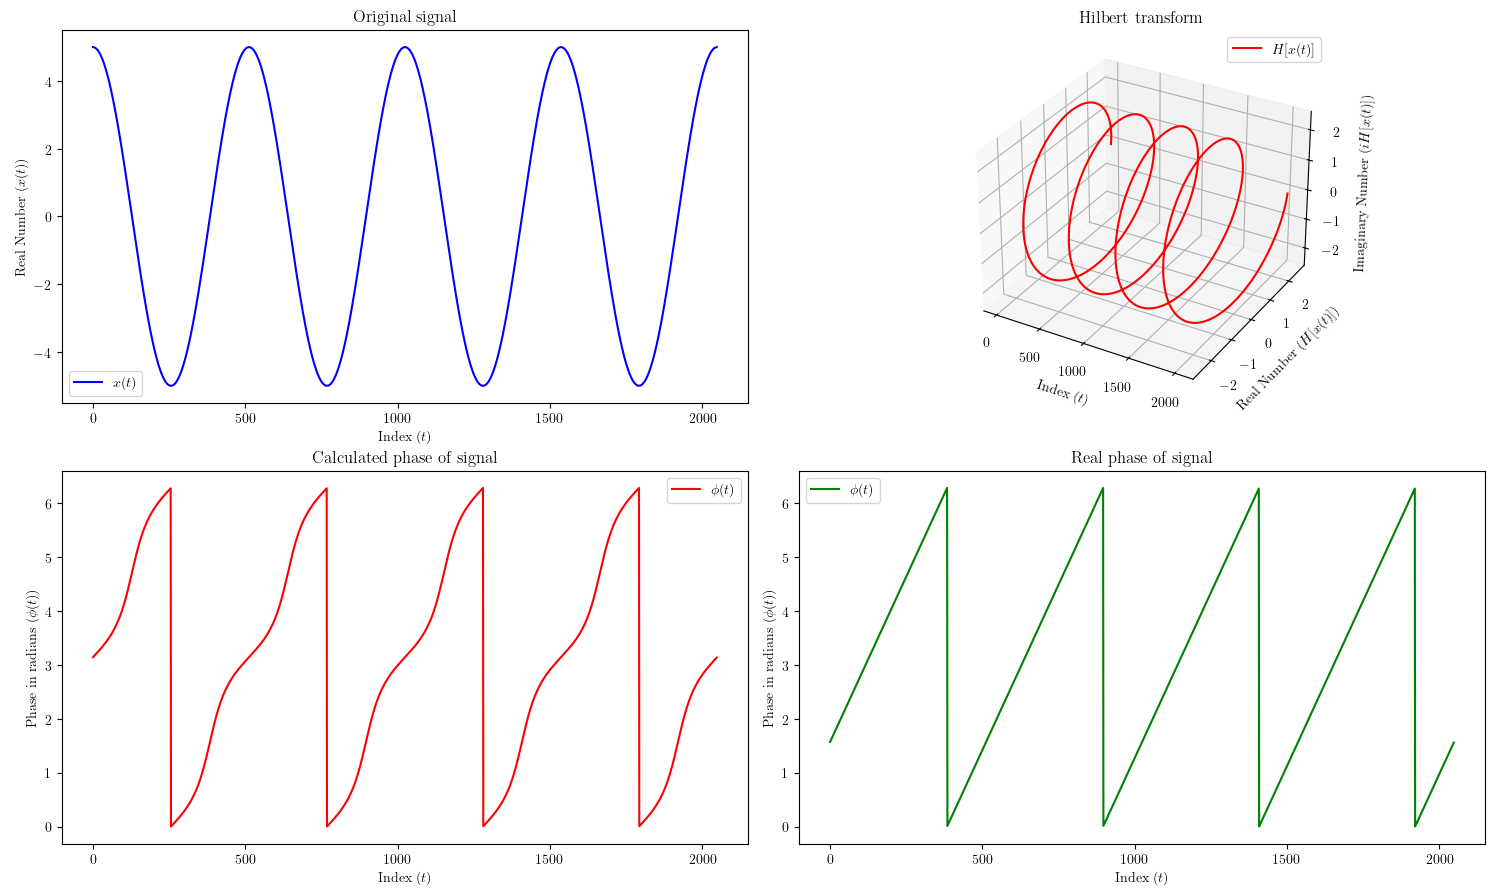
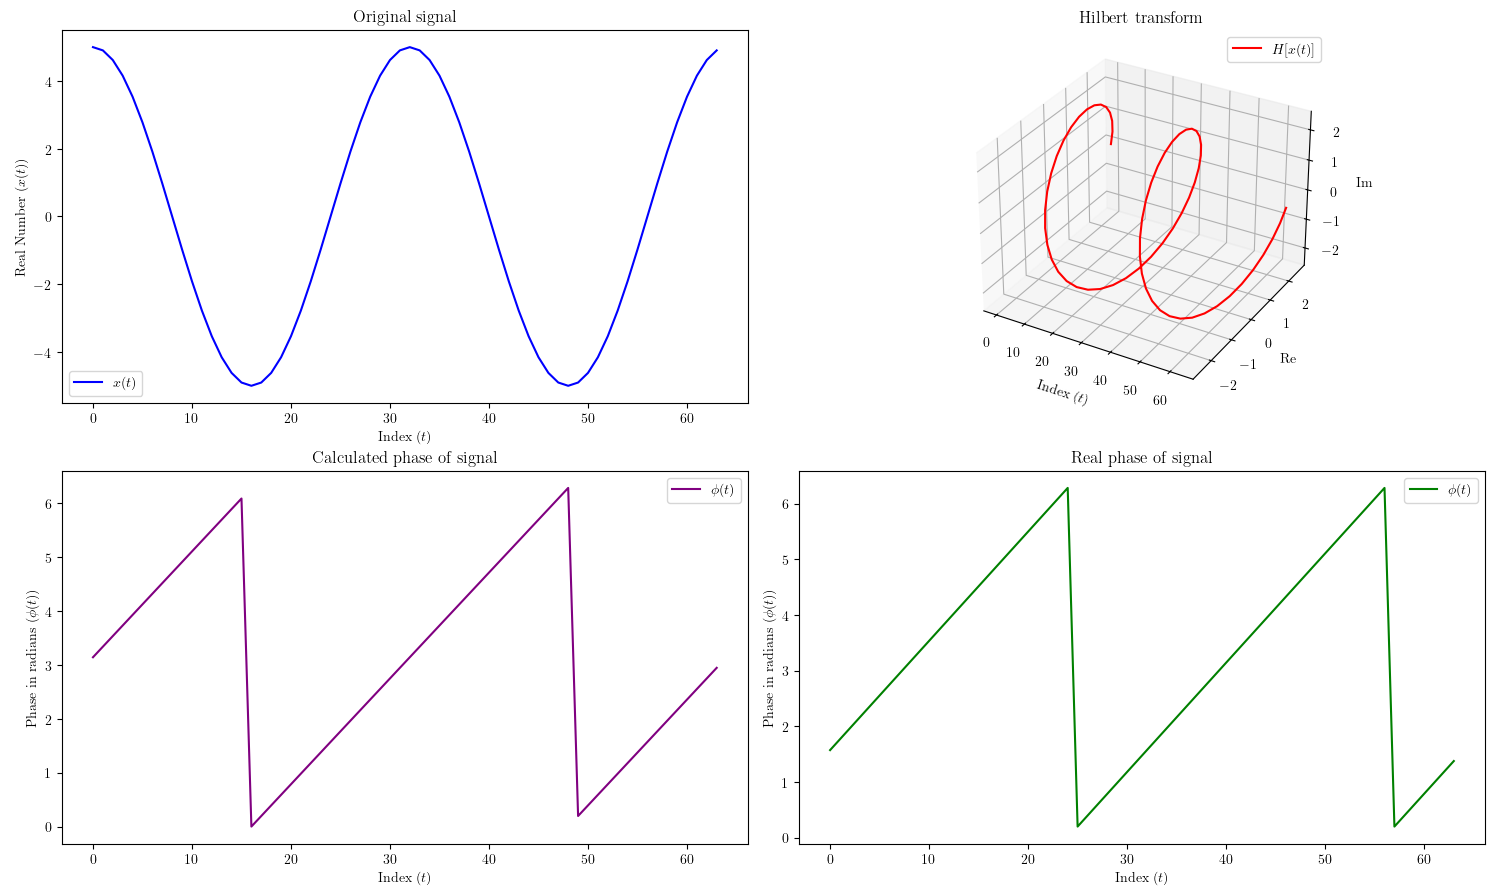
ht.c now uses complex.h, almost working

diff --git a/ht.c b/ht.c
@@ -1,12 +1,36 @@
+/**
+ *  ht.c 
+ *
+ *  This file contains the source code for demoing a Hilbert transform in C, 
+ *  using GSL (GNU Scientific Library)
+ *
+ *  The program prints x(t), H[x(t)], and the calculated and real instantaneous
+ *  phase of x(t), over time 
+ *  Where x(t) is the original signal, i.e. 5cos(2pi * 2 * t)
+ *        H[x(t)] is the Hilbert transform of x(t)
+ */
+
 #include <stdio.h>
 #include <stdlib.h>
 #include <math.h>
+#include <complex.h>
 #include <gsl/gsl_errno.h>
 #include <gsl/gsl_fft_complex.h>
 
 #define REAL(z,i) ((z)[2*(i)])
 #define IMAG(z,i) ((z)[2*(i)+1])
 #define TWOPI 6.2831853
+
+// Generate a cosine signal with given values
+// * Presumes that data is of size 2*n 
+void generate_cos(double f, double A, double period, double* data, int n) {
+  double dt = period / n;
+  for (int i = 0; i < n; i++)
+  {
+    REAL(data,i) = A * cos(TWOPI * f * dt * i); 
+    IMAG(data,i) = 0;
+  }
+}
 
 // Hilbert tranform function
 void hilbert(double* data, int stride, int n) {
@@ -21,18 +45,12 @@ void hilbert(double* data, int stride, int n) {
   gsl_fft_complex_radix2_inverse (data, stride, n);
 }
 
-// Instantaneous phase function 
-// analogous to `angle()` in MATLAB/Python
-double angle(double real, double imag) {
-  return atan2(imag, real);
-}
-
 int main(void) {
   // Information about original signal x(t)
   double f = 2.0;       // Hz
   double A = 5.0; 
-  double period = 2.0;  // s
-  int n = 2048;         // # samples
+  double period = 1.0;  // s
+  int n = 64;           // # samples
   double dt = period / n;
 
   // Print num samples
@@ -40,16 +58,9 @@ int main(void) {
 
   int i; 
   double data[2*n];
-  double transformed_data[2*n];
 
-  // Initialize `data` and `transformed_data` with x(t)
-  for (i = 0; i < n; i++)
-  {
-    REAL(data,i) = A * cos(TWOPI * f * dt * i); 
-    IMAG(data,i) = 0;
-    REAL(transformed_data,i) = A * cos(TWOPI * f * dt * i); 
-    IMAG(transformed_data,i) = 0;
-  }
+  // Initialize `data` with x(t)
+  generate_cos(f, A, period, data, n);
 
   // Print initial `data` i.e. x(t)
   for (i = 0; i < n; i++)
@@ -59,40 +70,41 @@ int main(void) {
     );
   }
 
-  // Store H[x(t)] in `transformed_data`
-  hilbert (transformed_data, 1, n);
+  // Perform Hilbert transform on `data`
+  hilbert (data, 1, n);
 
-  // Print `transformed_data` i.e. H[x(t)]
+  // Print `data` i.e. H[x(t)]
   for (i = 0; i < n; i++)
   {
     printf ("%d %e %e\n", i,
-      REAL(transformed_data,i),
-      IMAG(transformed_data,i)
+      REAL(data,i),
+      IMAG(data,i)
     );
   }
 
   // Print calculated phase over time,  
   // * Mapped from (-pi,pi] to (0, 2pi]
-  // * Shifted by -pi/2 (Hilbert shifts by +pi/2)
   for (i = 0; i < n; i++)
   {
+    gsl_complex a = REAL(data,i) + IMAG(data,i)*I;
     printf ("%d %e\n", i,
-      angle(REAL(data,i), IMAG(transformed_data,i)) + (TWOPI / 2)
+      carg(a) + (TWOPI / 2)
     );
   }
 
   // Print actual phase over time
-  double phi_0 = TWOPI / 4; // pi / 2
+  const double phi_0 = TWOPI / 4; // pi / 2
   for (i = 0; i < n; i++)
   {
-    double phi = (TWOPI * dt * i * f) + phi_0; 
+    double phi_t = (TWOPI * dt * i * f) + phi_0; 
 
     // shitty modulo
-    while (phi > TWOPI) {
-      phi -= TWOPI;
+    while (phi_t > TWOPI) {
+      phi_t -= TWOPI;
     }
+
     printf ("%d %e\n", i,
-      phi 
+      phi_t 
     );
   }
 

diff --git a/scripts/plot.py b/scripts/plot.py
@@ -78,14 +78,14 @@ def main():
     ax1 = fig.add_subplot(222, projection='3d')
     ax1.plot(range(n), real_nums_postHT, imag_nums_postHT, c='red', label=(r'$H[x(t)]$'))
     ax1.set_xlabel(r'Index ($t$)')
-    ax1.set_ylabel(r'Real Number ($H[x(t)]$)')
-    ax1.set_zlabel(r'Imaginary Number ($iH[x(t)]$)')
+    ax1.set_ylabel(r'Re')
+    ax1.set_zlabel(r'Im')
     ax1.set_title('Hilbert transform')
     ax1.legend()
 
     # 2D Plot for calculated phase 
     ax2 = fig.add_subplot(223)
-    ax2.plot(range(n), phase_data, c='red', label=(r'$\phi (t)$'))
+    ax2.plot(range(n), phase_data, c='purple', label=(r'$\phi (t)$'))
     ax2.set_xlabel(r'Index ($t$)')
     ax2.set_ylabel(r'Phase in radians ($\phi (t)$)')
     ax2.set_title('Calculated phase of signal')
